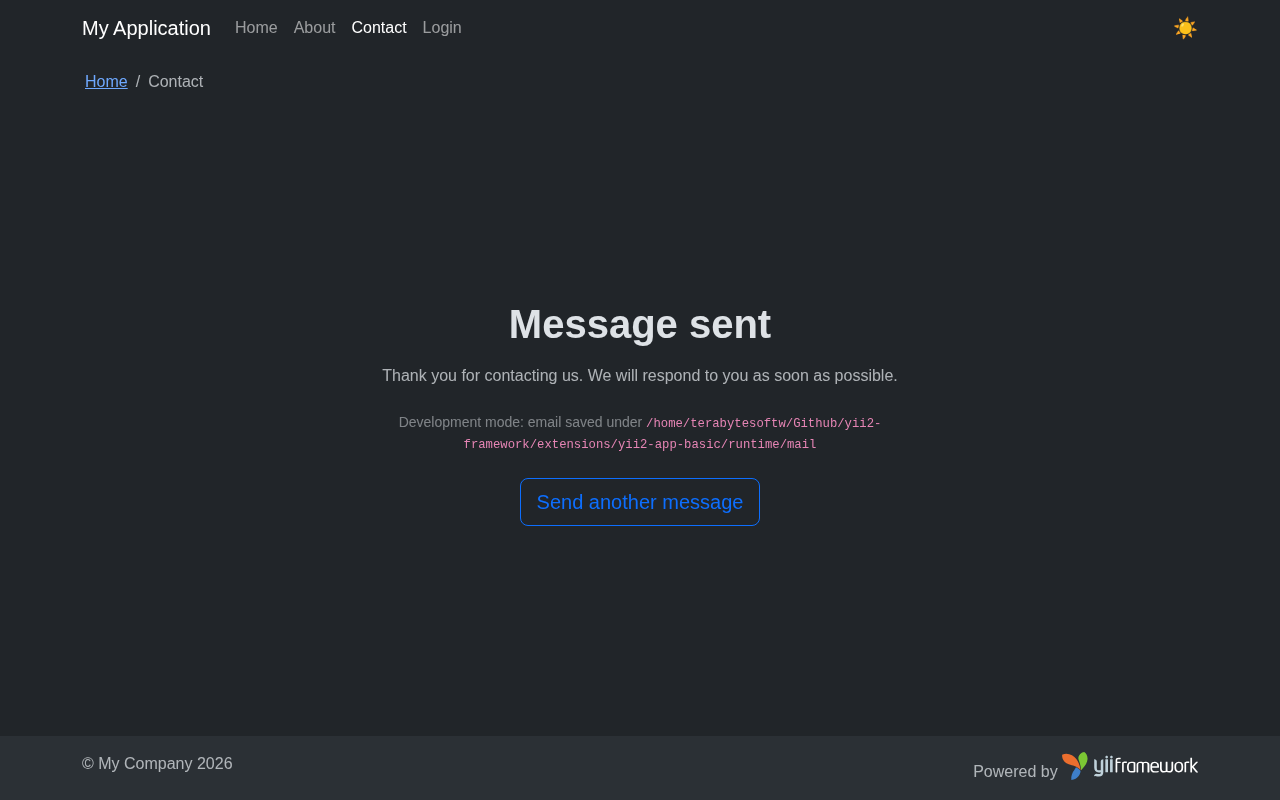
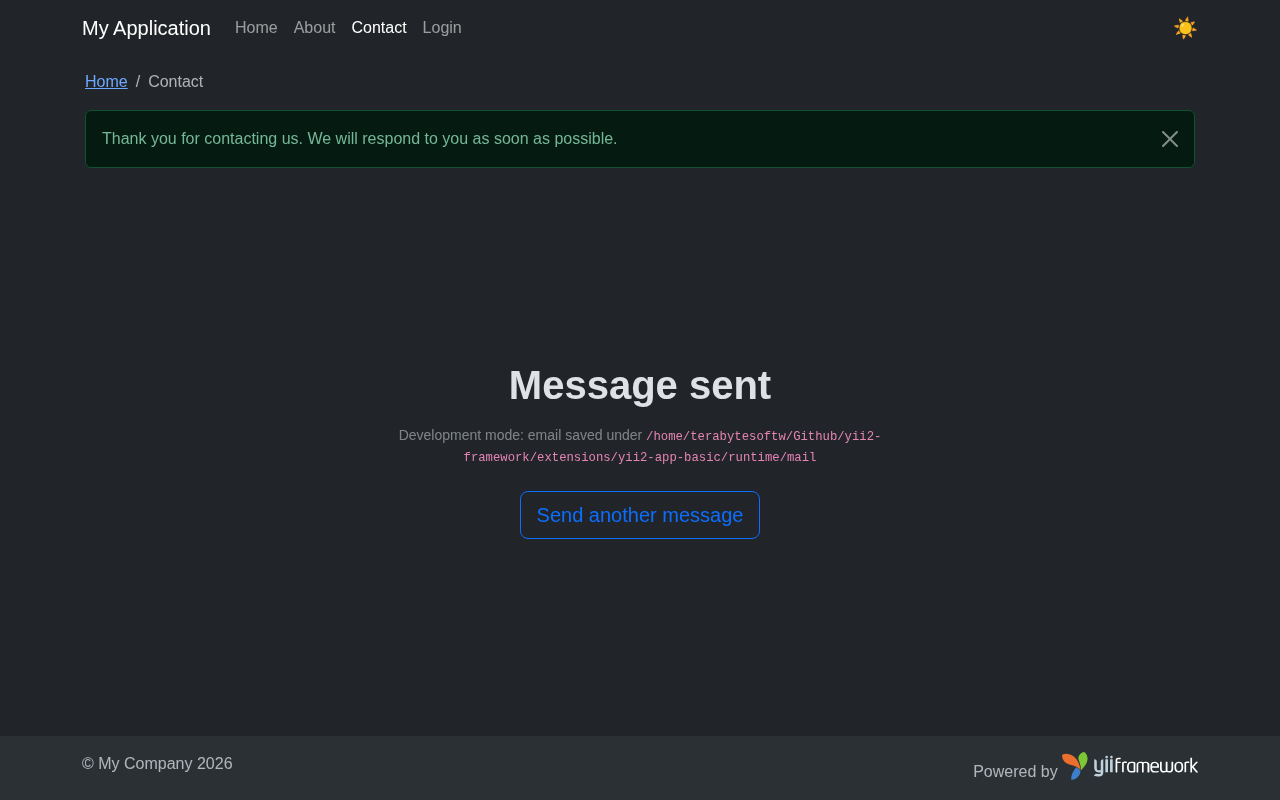
Prevent `Alert` widget from starting session unnecessarily. (#335)

Changed region(s): [[0.0625, 0.125, 0.9375, 0.2188], [0.3125, 0.4688, 0.6875, 0.6562], [0.375, 0.375, 0.625, 0.4375]]

diff --git a/tests/Unit/widgets/AlertTest.php b/tests/Unit/widgets/AlertTest.php
@@ -243,6 +243,24 @@ class AlertTest extends \Codeception\Test\Unit
         verify($renderingResult)->stringContainsString('alert-warning');
     }
 
+    public function testSkipsSessionStartWhenNoSessionExists()
+    {
+        $session = Yii::$app->session;
+
+        // Ensure the session is closed and no session cookie is present.
+        $session->close();
+
+        unset($_COOKIE[$session->getName()]);
+
+        verify($session->getIsActive())->false();
+        verify($session->getHasSessionId())->false();
+
+        $renderingResult = Alert::widget();
+
+        verify($renderingResult)->equals('');
+        verify($session->getIsActive())->false();
+    }
+
     public function testFlashIntegrity()
     {
         $errorMessage = 'This is an error message';

diff --git a/views/site/contact.php b/views/site/contact.php
@@ -15,15 +15,11 @@ $htmlIcon = <<<HTML
 <div class="form-floating flex-grow-1">{input}{label}</div>{error}{hint}
 HTML;
 ?>
-<?php if (Yii::$app->session->hasFlash('contactFormSubmitted')): ?>
+<?php if (Yii::$app->session->hasFlash('success')): ?>
 
 <div class="site-contact-success d-flex align-items-center justify-content-center text-center">
     <div class="site-contact-success-content mx-auto">
         <h1 class="display-6 fw-semibold mb-3">Message sent</h1>
-
-        <p class="text-body-secondary mb-4">
-            Thank you for contacting us. We will respond to you as soon as possible.
-        </p>
 
         <?php if (YII_DEBUG && Yii::$app->mailer->useFileTransport): ?>
             <p class="text-body-tertiary small mb-4">

diff --git a/controllers/SiteController.php b/controllers/SiteController.php
@@ -132,7 +132,10 @@ class SiteController extends Controller
         );
 
         if ($contact) {
-            Yii::$app->session->setFlash('contactFormSubmitted');
+            Yii::$app->session->setFlash(
+                'success',
+                'Thank you for contacting us. We will respond to you as soon as possible.',
+            );
 
             return $this->refresh();
         }

diff --git a/widgets/Alert.php b/widgets/Alert.php
@@ -54,6 +54,10 @@ class Alert extends \yii\bootstrap5\Widget
     {
         $session = Yii::$app->session;
 
+        if (!$session->getIsActive() && !$session->getHasSessionId()) {
+            return;
+        }
+
         $appendClass = isset($this->options['class']) ? ' ' . $this->options['class'] : '';
 
         foreach (array_keys($this->alertTypes) as $type) {
